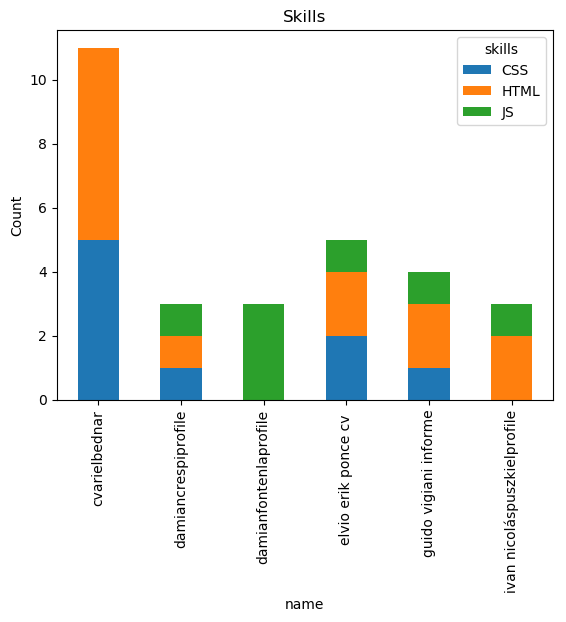
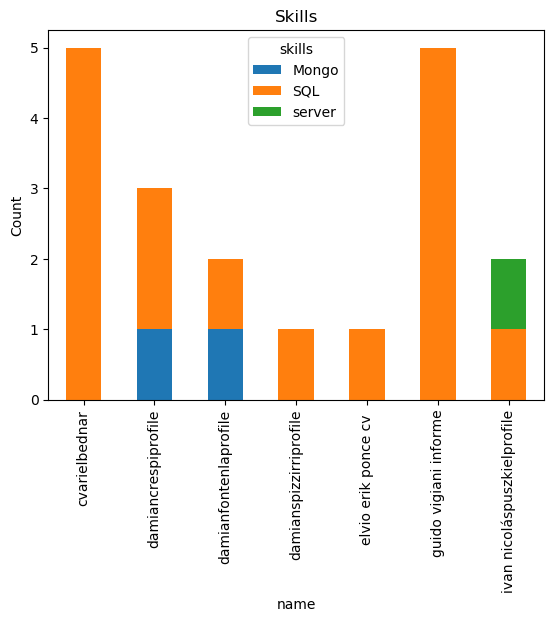
integrada logica de selects y render del grafico segun opcion seleccionada

diff --git a/templates/index.html b/templates/index.html
@@ -3,22 +3,26 @@
 <head>
 	<title>Data Rekognizr</title>
 	<meta charset="utf-8" />
+	<link rel="shortcut icon" type="image/x-icon" href="../static/images/favicon.ico"/>
 	<script type="text/javascript" src="{{ url_for('static', filename='js/jquery.js') }}"></script>
 	<link rel="stylesheet" href="{{ url_for('static', filename='css/styles.css') }}">
 </head>
 <body>
 	<div class="main">
 		<div class="cont">
-			<div class="box-config">
+			<form method="POST" name="form-dic" class="box-config" dic="{{ dictionary }}">
 				<label>
 					<span>Select dictionary:</span>
-					<select>
+					<select id="dic-select" name="dictionary">
 						<option value="frontend">Frontend</option>
 						<option value="backend">Backend</option>
 						<option value="database">Data Base</option>
 					</select>
 				</label>
-			</div>
+				<label>
+					<button class="btn" type="submit">Submit</button>
+				</label>
+			</form>
 			<div class="result">
 				<img src="{{ url_for('static', filename='images/plot.png') }}" />
 			</div>

diff --git a/static/css/styles.css b/static/css/styles.css
@@ -4,7 +4,7 @@
 	--color-primary: #1976d2;
 	--color-text: #333333;
 
-	--radius: 5px;
+	--radius: 3px;
 }
 /* Simple reset */
 * {
@@ -14,7 +14,9 @@
 body {
 	font-family: 'Open Sans', sans-serif;
 }
-
+img {
+	max-width: 100%;
+}
 .cont {
 	max-width: 800px;
 	margin: 0 auto;
@@ -56,3 +58,19 @@ body {
 .result {
 	text-align: center;
 }
+/* BUTTONS */
+.btn {
+	background: white;
+	border: none;
+	border-radius: var(--radius);
+	color: var(--color-text);
+	cursor: pointer;
+	display: inline-block;
+	height: 36px;
+	line-height: 36px;
+	padding: 0 16px;
+	text-transform: uppercase;
+	outline: 0;
+}
+/* UTILITIES */
+.bg-white {}

diff --git a/static/js/app.js b/static/js/app.js
@@ -1,0 +1,6 @@
+function setDic(){
+	var getDic = document.forms['form-dic'].attributes.dic.value;
+	$('#dic-select').val(getDic);
+	console.log(getDic)
+}
+setDic()

diff --git a/app.py b/app.py
@@ -3,51 +3,64 @@ from os import listdir
 from os.path import isfile, join
 import pandas as pd
 import matplotlib.pyplot as plt
-from flask import Flask, render_template
+from flask import Flask, render_template, request
 app = Flask(__name__)
 
 
 
-# Create dictionary
-dictionary = ['HTML','CSS','JS']
-
-# Define empty object to use later for graphic
-OBJ = {
-	'name':[],
-	'skills':[]
-}
 
 def CleanFileNames(file):
 	return file.split('.')[0].lower()
 
 # Read all source data files
-for filename in os.listdir('./data'):
-	if filename.endswith('.txt'):
-		cleanFileNames=CleanFileNames(filename)
+def createGraphic(dic):
 
-		with open(os.path.join('./data', filename), encoding='utf-8') as searchfile:
-			for line in searchfile:		# For each line of the source files
-				for term in dictionary:	# For each term from dictionary in each line
-					if term in line:
-						OBJ['name'].append(cleanFileNames)
-						OBJ['skills'].append(term)
+	# Create dictionary
+	if dic == 'frontend':
+		dictionary = ['HTML','CSS','JS']
+	elif dic == 'backend':
+		dictionary = ['PHP','PYTHON','RUBY','JAVA']
+	elif dic == 'database':
+		dictionary = ['SQL','Mongo','server']
 
-# Create dataFrame for graphic
-df=pd.DataFrame(OBJ)
-print(df)
+	# Define empty object to use later for graphic
+	OBJ = {
+		'name':[],
+		'skills':[]
+	}
 
-# Render graphic
-df.groupby(['name','skills']).size().unstack().plot(kind='bar',stacked=True, title='Skills')
-plt.ylabel('Count')
-plt.savefig('./static/images/plot.png', bbox_inches='tight')
-#plt.show()
+	for filename in os.listdir('./data'):
+		if filename.endswith('.txt'):
+			cleanFileNames=CleanFileNames(filename)
+
+			with open(os.path.join('./data', filename), encoding='utf-8') as searchfile:
+				for line in searchfile:		# For each line of the source files
+					for term in dictionary:	# For each term from dictionary in each line
+						if term in line:
+							OBJ['name'].append(cleanFileNames)
+							OBJ['skills'].append(term)
+
+	# Create dataFrame for graphic
+	df=pd.DataFrame(OBJ)
+	print(df)
+
+	# Render graphic
+	df.groupby(['name','skills']).size().unstack().plot(kind='bar',stacked=True, title='Skills')
+	plt.ylabel('Count')
+	plt.savefig('./static/images/plot.png', bbox_inches='tight')
+	#plt.show()
+
+
 
 
 
 ###### ROUTES ######
-@app.route('/')
+@app.route('/', methods=['GET', 'POST'])
 def index():
-   return render_template('index.html')
+	default_dictionary = 'frontend'
+	dic = request.form.get('dictionary', default_dictionary)
+	createGraphic(dic)
+	return render_template('index.html', dictionary=dic)
 
 if __name__ == '__main__':
    app.run(debug = True)
